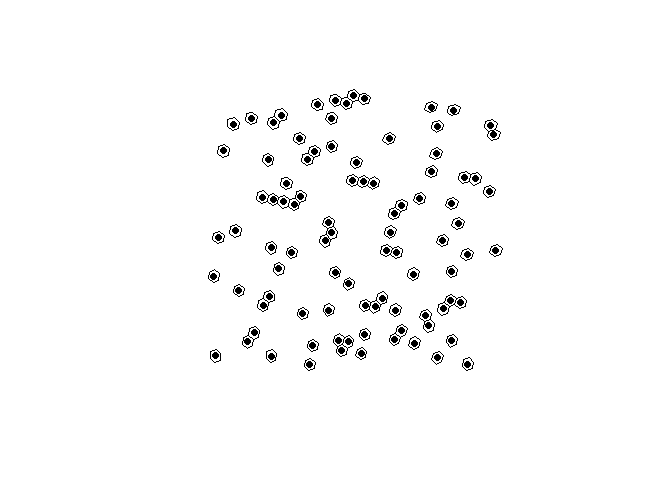
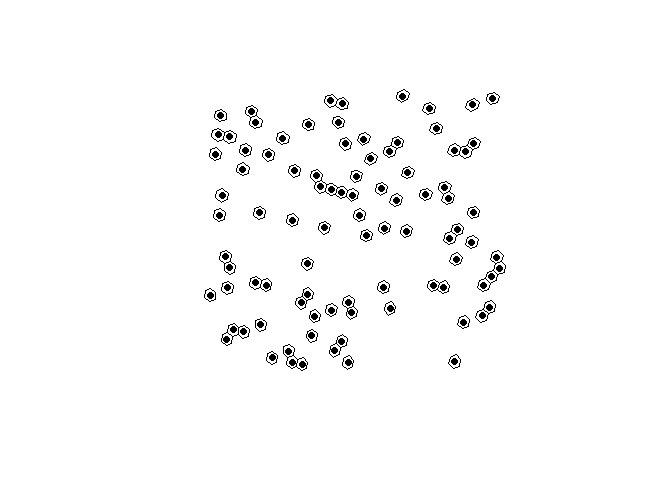
fix urls and add badges

diff --git a/README.md b/README.md
@@ -4,14 +4,16 @@
 
 <!-- badges: start -->
 
-[![](https://github.com/JosiahParry/h3o/actions/workflows/R-CMD-check.yaml/badge.svg)](https://github.com/JosiahParry/h3o/actions/workflows/R-CMD-check.yaml)
-
+[![R-CMD-check](https://github.com/extendr/h3o/actions/workflows/R-CMD-check.yaml/badge.svg)](https://github.com/extendr/h3o/actions/workflows/R-CMD-check.yaml)
+[![CRAN
+status](https://www.r-pkg.org/badges/version/h3o.png)](https://CRAN.R-project.org/package=h3o)
+[![extendr](https://img.shields.io/badge/extendr-%5E0.8.0-276DC2)](https://extendr.rs/extendr/extendr_api/)
 <!-- badges: end -->
 
 `{h3o}` is a lightweight R package for interacting with [Uber’s H3
 Geospatial Indexing system](https://github.com/uber/h3). The R package
-uses [extendr](https://extendr.github.io/) to wrap the eponymous [h3o
-Rust crate](https://crates.io/crates/h3o), which offers a pure Rust
+uses [extendr](https://extendr.rs/) to wrap the eponymous [h3o Rust
+crate](https://crates.io/crates/h3o), which offers a pure Rust
 implementation of H3, so no linking to Uber’s H3 C library. The package
 is also intended to work with the
 [`{sf}`](https://github.com/r-spatial/sf) package for geometric
@@ -32,7 +34,7 @@ Or you can install the development version from
 
 ``` r
 # install.packages("pak")
-pak::pak("JosiahParry/h3o")
+pak::pak("extendr/h3o")
 ```
 
 ## Example
@@ -61,20 +63,20 @@ pnts |> mutate(h3 = h3_from_points(geometry, 5))
 #> Simple feature collection with 100 features and 1 field
 #> Geometry type: POINT
 #> Dimension:     XY
-#> Bounding box:  xmin: -4.687389 ymin: 40.09688 xmax: 9.911612 ymax: 49.97784
+#> Bounding box:  xmin: -4.906456 ymin: 40.13608 xmax: 9.720642 ymax: 49.77958
 #> Geodetic CRS:  WGS 84
 #> First 10 features:
-#>                      geometry              h3
-#> 1   POINT (4.504552 45.26616) 851f93d7fffffff
-#> 2   POINT (1.816329 40.94935) 853946abfffffff
-#> 3  POINT (-2.147328 46.43598) 85184183fffffff
-#> 4   POINT (3.260273 41.34728) 853940a3fffffff
-#> 5   POINT (-1.50323 46.38411) 85186a53fffffff
-#> 6  POINT (0.1499664 42.05342) 85397567fffffff
-#> 7   POINT (4.900316 41.40955) 85394cdbfffffff
-#> 8  POINT (-1.195541 46.94178) 85186e6bfffffff
-#> 9   POINT (9.911612 49.19627) 851faa37fffffff
-#> 10 POINT (-3.434653 45.27516) 85184ecffffffff
+#>                       geometry              h3
+#> 1    POINT (6.604776 48.68961) 851f8423fffffff
+#> 2  POINT (-0.6574923 40.42394) 85397237fffffff
+#> 3   POINT (-4.327095 46.43766) 851843dbfffffff
+#> 4    POINT (2.098711 40.28164) 85394283fffffff
+#> 5    POINT (8.558989 44.79674) 851f9bd7fffffff
+#> 6   POINT (-2.064705 47.93067) 8518637bfffffff
+#> 7    POINT (7.966344 47.88122) 851f8143fffffff
+#> 8    POINT (-1.18493 48.41385) 85186383fffffff
+#> 9   POINT (0.2382595 43.76685) 8539668ffffffff
+#> 10  POINT (0.2054317 48.94255) 85186573fffffff
 ```
 
 H3 vectors also have an `st_as_sfc()` method which allows conversion of
@@ -123,18 +125,18 @@ cell_edges <- h3_edges(h3s[1:3])
 cell_edges
 #> [[1]]
 #> <H3Edge[6]>
-#> [1] 1141f93dffffffff 1241f93dffffffff 1341f93dffffffff 1441f93dffffffff
-#> [5] 1541f93dffffffff 1641f93dffffffff
+#> [1] 1141f843ffffffff 1241f843ffffffff 1341f843ffffffff 1441f843ffffffff
+#> [5] 1541f843ffffffff 1641f843ffffffff
 #> 
 #> [[2]]
 #> <H3Edge[6]>
-#> [1] 1143946bffffffff 1243946bffffffff 1343946bffffffff 1443946bffffffff
-#> [5] 1543946bffffffff 1643946bffffffff
+#> [1] 11439723ffffffff 12439723ffffffff 13439723ffffffff 14439723ffffffff
+#> [5] 15439723ffffffff 16439723ffffffff
 #> 
 #> [[3]]
 #> <H3Edge[6]>
-#> [1] 11418419ffffffff 12418419ffffffff 13418419ffffffff 14418419ffffffff
-#> [5] 15418419ffffffff 16418419ffffffff
+#> [1] 1141843dffffffff 1241843dffffffff 1341843dffffffff 1441843dffffffff
+#> [5] 1541843dffffffff 1641843dffffffff
 ```
 
 We’ve created a list of each cell’s edges. We can flatten them using
@@ -144,11 +146,11 @@ We’ve created a list of each cell’s edges. We can flatten them using
 cell_edges <- flatten_edges(cell_edges)
 cell_edges
 #> <H3Edge[18]>
-#>  [1] 1141f93dffffffff 1241f93dffffffff 1341f93dffffffff 1441f93dffffffff
-#>  [5] 1541f93dffffffff 1641f93dffffffff 1143946bffffffff 1243946bffffffff
-#>  [9] 1343946bffffffff 1443946bffffffff 1543946bffffffff 1643946bffffffff
-#> [13] 11418419ffffffff 12418419ffffffff 13418419ffffffff 14418419ffffffff
-#> [17] 15418419ffffffff 16418419ffffffff
+#>  [1] 1141f843ffffffff 1241f843ffffffff 1341f843ffffffff 1441f843ffffffff
+#>  [5] 1541f843ffffffff 1641f843ffffffff 11439723ffffffff 12439723ffffffff
+#>  [9] 13439723ffffffff 14439723ffffffff 15439723ffffffff 16439723ffffffff
+#> [13] 1141843dffffffff 1241843dffffffff 1341843dffffffff 1441843dffffffff
+#> [17] 1541843dffffffff 1641843dffffffff
 ```
 
 These can be cast to sfc objects using `st_as_sfc()`.
@@ -158,14 +160,14 @@ st_as_sfc(cell_edges)
 #> Geometry set for 18 features 
 #> Geometry type: LINESTRING
 #> Dimension:     XY
-#> Bounding box:  xmin: -2.518472 ymin: 40.84516 xmax: 4.818449 ymax: 46.60887
+#> Bounding box:  xmin: -4.577141 ymin: 40.10303 xmax: 6.908627 ymax: 48.92561
 #> Geodetic CRS:  WGS 84
 #> First 5 geometries:
-#> LINESTRING (4.748771 44.94225, 4.818449 45.17055)
-#> LINESTRING (4.201051 44.99631, 4.440499 44.85539)
-#> LINESTRING (4.440499 44.85539, 4.748771 44.94225)
-#> LINESTRING (4.578042 45.31175, 4.268915 45.22437)
-#> LINESTRING (4.818449 45.17055, 4.578042 45.31175)
+#> LINESTRING (6.828196 48.56718, 6.908627 48.78762)
+#> LINESTRING (6.24713 48.62253, 6.49798 48.48486)
+#> LINESTRING (6.49798 48.48486, 6.828196 48.56718)
+#> LINESTRING (6.656859 48.92561, 6.325574 48.84283)
+#> LINESTRING (6.908627 48.78762, 6.656859 48.92561)
 ```
 
 Additionally, you can get the vertexes of H3 cell indexes using
@@ -176,14 +178,14 @@ h3_to_vertexes(h3s)
 #> Geometry set for 100 features 
 #> Geometry type: MULTIPOINT
 #> Dimension:     XY
-#> Bounding box:  xmin: -5.049869 ymin: 39.94716 xmax: 10.37721 ymax: 50.35027
+#> Bounding box:  xmin: -5.162291 ymin: 40.02598 xmax: 10.1164 ymax: 50.08041
 #> Geodetic CRS:  WGS 84
 #> First 5 geometries:
-#> MULTIPOINT ((4.268915 45.22437), (4.201051 44.9...
-#> MULTIPOINT ((1.563896 41.22113), (1.508041 40.9...
-#> MULTIPOINT ((-2.164091 46.60887), (-2.470648 46...
-#> MULTIPOINT ((2.941338 41.43962), (2.880845 41.2...
-#> MULTIPOINT ((-1.602187 46.52355), (-1.907502 46...
+#> MULTIPOINT ((6.325574 48.84283), (6.24713 48.62...
+#> MULTIPOINT ((-0.6690999 40.57641), (-0.9475784 ...
+#> MULTIPOINT ((-4.227092 46.53696), (-4.535994 46...
+#> MULTIPOINT ((1.905903 40.46739), (1.849434 40.2...
+#> MULTIPOINT ((8.142693 44.78613), (8.062234 44.5...
 ```
 
 ## Bench marks
@@ -201,8 +203,8 @@ bench::mark(
 #> # A tibble: 2 × 6
 #>   expression      min   median `itr/sec` mem_alloc `gc/sec`
 #>   <bch:expr> <bch:tm> <bch:tm>     <dbl> <bch:byt>    <dbl>
-#> 1 h3o         432.3µs  477.7µs     1972.    9.85KB     14.6
-#> 2 h3jsr        8.19ms   8.83ms      110.    2.69MB     89.4
+#> 1 h3o         462.6µs  505.7µs     1863.    9.85KB     14.6
+#> 2 h3jsr        8.34ms   9.36ms      106.     2.7MB     90.0
 ```
 
 ### Converting polygons to H3 cells:
@@ -220,8 +222,8 @@ bench::mark(
 #> # A tibble: 2 × 6
 #>   expression      min   median `itr/sec` mem_alloc `gc/sec`
 #>   <bch:expr> <bch:tm> <bch:tm>     <dbl> <bch:byt>    <dbl>
-#> 1 h3o          4.96ms   5.29ms     185.     21.4KB    11.2 
-#> 2 h3jsr       28.79ms   29.5ms      33.8   748.7KB     5.19
+#> 1 h3o           4.8ms   5.35ms     183.     21.4KB    11.3 
+#> 2 h3jsr        27.6ms  28.51ms      34.8   748.7KB     4.97
 ```
 
 ### Converting points to cells
@@ -235,8 +237,8 @@ bench::mark(
 #> # A tibble: 2 × 6
 #>   expression      min   median `itr/sec` mem_alloc `gc/sec`
 #>   <bch:expr> <bch:tm> <bch:tm>     <dbl> <bch:byt>    <dbl>
-#> 1 h3o         105.2µs  124.5µs     7114.      848B    11.7 
-#> 2 h3jsr        2.57ms   2.96ms      329.     975KB     8.49
+#> 1 h3o         103.4µs  123.3µs     7372.      848B     11.4
+#> 2 h3jsr        2.63ms   3.04ms      326.     975KB     13.3
 ```
 
 ### Retrieve edges
@@ -250,8 +252,8 @@ bench::mark(
 #> # A tibble: 2 × 6
 #>   expression      min   median `itr/sec` mem_alloc `gc/sec`
 #>   <bch:expr> <bch:tm> <bch:tm>     <dbl> <bch:byt>    <dbl>
-#> 1 h3o         351.7µs  509.5µs     1674.      848B     13.1
-#> 2 h3jsr        1.72ms   2.88ms      363.    67.9KB     16.2
+#> 1 h3o         403.5µs  530.3µs     1593.      848B     16.9
+#> 2 h3jsr        1.64ms   1.76ms      555.    67.9KB     17.3
 ```
 
 ### Get origins and destinations from edges.
@@ -270,6 +272,6 @@ bench::mark(
 #> # A tibble: 2 × 6
 #>   expression      min   median `itr/sec` mem_alloc `gc/sec`
 #>   <bch:expr> <bch:tm> <bch:tm>     <dbl> <bch:byt>    <dbl>
-#> 1 h3o          14.3µs     22µs    40992.    7.86KB     16.4
-#> 2 h3jsr       646.1µs    741µs     1250.   19.82KB     15.4
+#> 1 h3o          12.9µs   18.1µs    49775.    7.86KB     19.9
+#> 2 h3jsr       631.3µs  740.1µs     1248.   19.82KB     12.9
 ```
